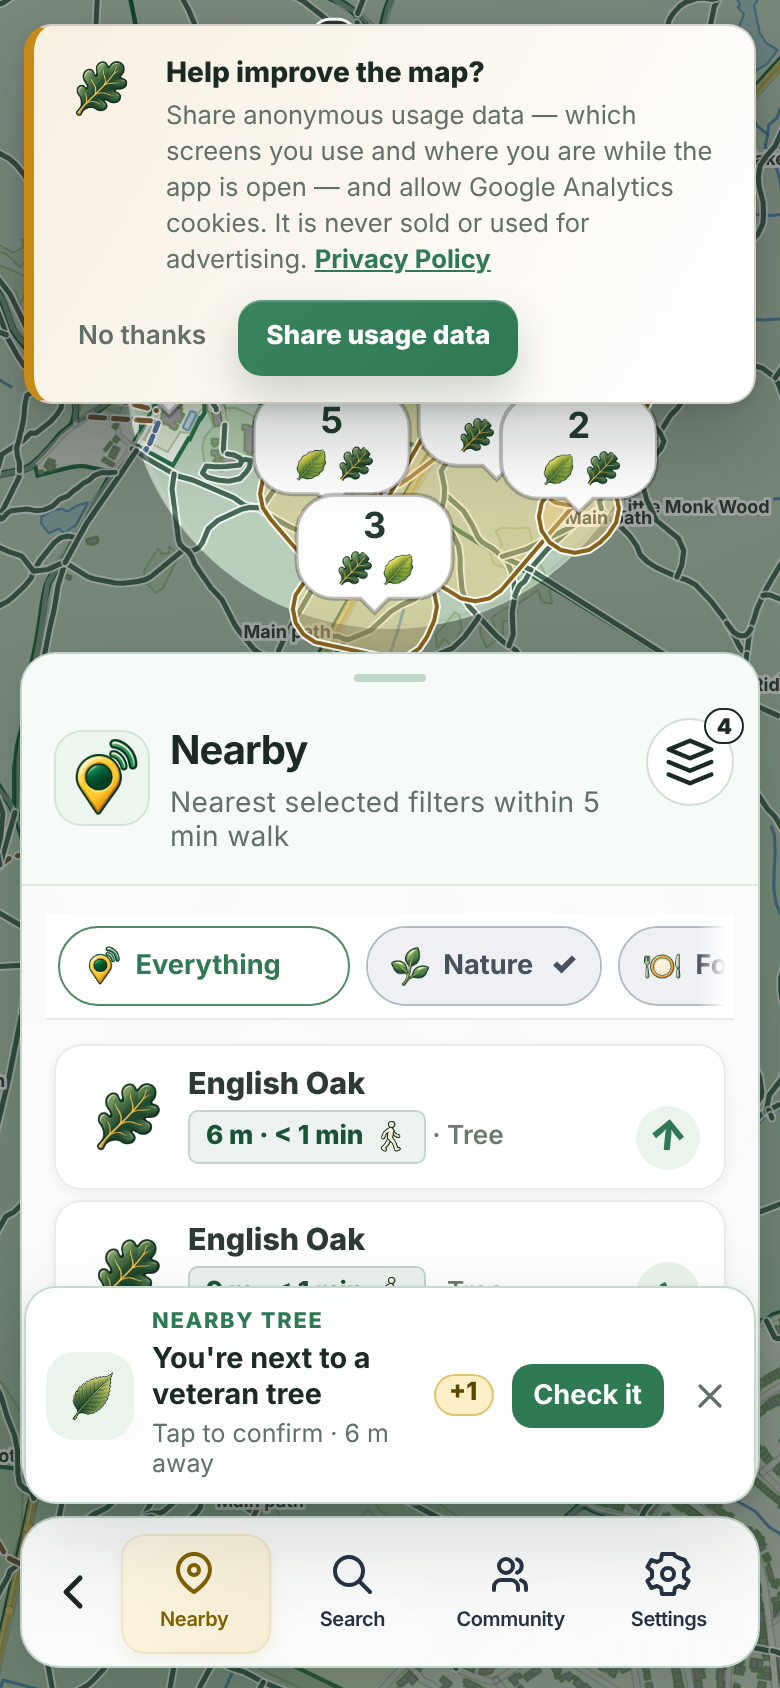
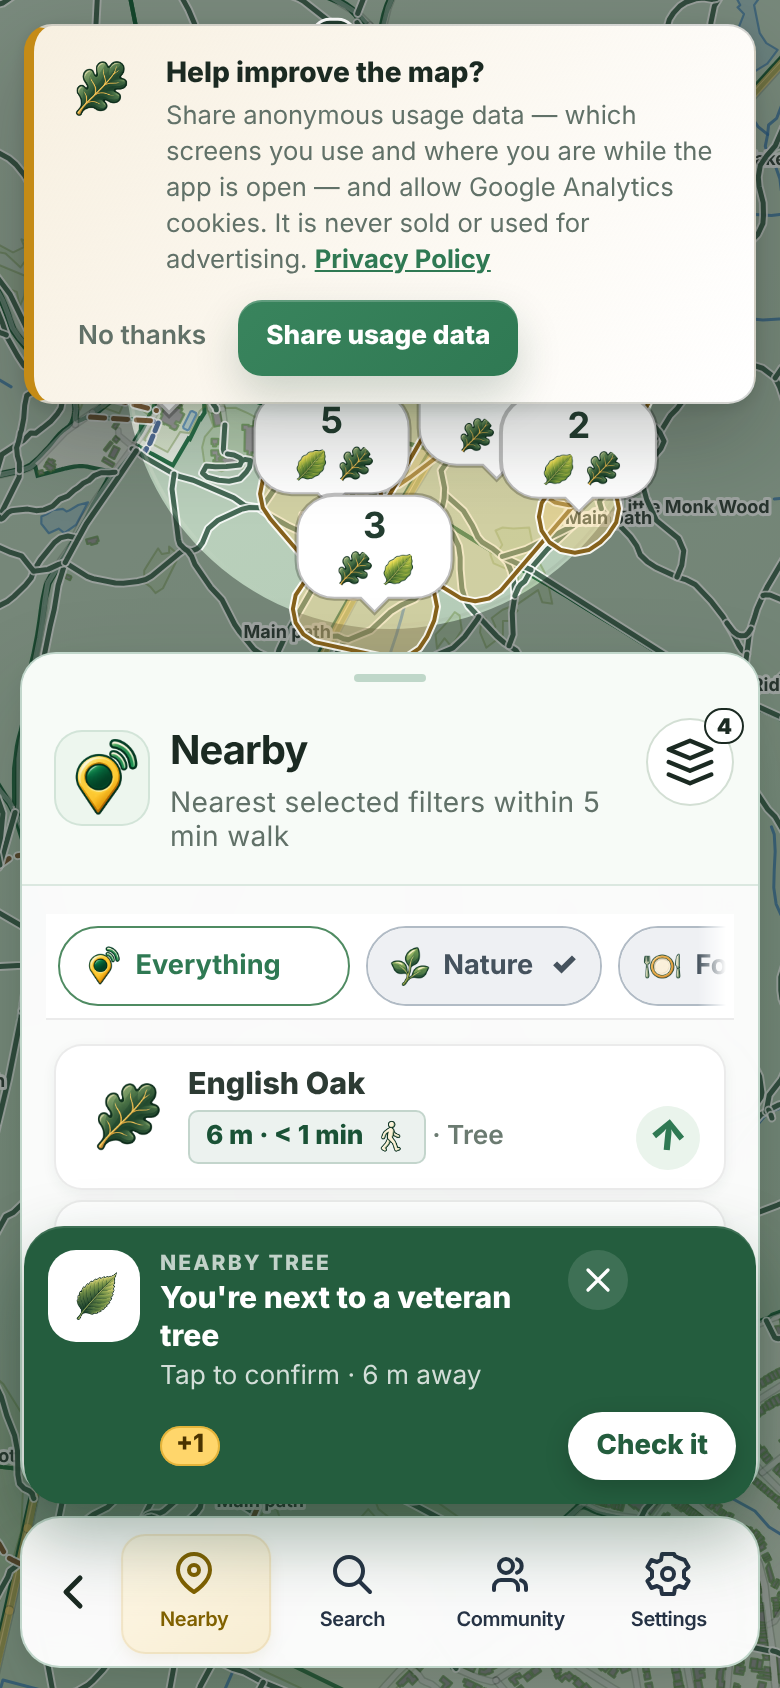
Rebuild the nudge on a fixed grid with a solid accent surface
Title block and close on the top row, points chip and the one action on
the bottom row, so nothing competes for the same space.

Claude-Session: https://claude.ai/code/session_01AJovwzNat6yvRnbUhUsFTU

Changed region(s): [[0.0308, 0.7085, 0.9846, 0.9242]]

diff --git a/css/inspector.css b/css/inspector.css
@@ -2189,21 +2189,21 @@ dd {
 }
 
 /* Nudge: a dismissible prompt when you are next to an unchecked tree, on every screen, and a one-off pulse on the check card.
-   Same panel, ink and accent as the app's other floating cards (see .event-nearby-banner-card); one solid accent action. */
-.community-nudge { position: fixed; z-index: 40; left: 12px; right: 12px; bottom: calc(var(--safe-bottom) + 92px); display: flex; align-items: center; gap: 12px; max-width: 460px; margin: 0 auto; padding: 12px 10px 12px 12px; border: 1px solid var(--border-accent); border-radius: 16px; background: var(--panel); color: var(--ink); box-shadow: var(--shadow); backdrop-filter: blur(12px); animation: community-nudge-in .3s ease-out; }
-.community-nudge-icon { display: inline-grid; place-items: center; width: 52px; height: 52px; border-radius: 14px; background: var(--accent-soft); color: var(--accent); flex: none; }
-.community-nudge-icon svg { width: 26px; height: 26px; }
-.community-nudge-art { width: 40px; height: 40px; object-fit: contain; }
-.community-nudge-eyebrow { font-style: normal; font-size: .68rem; font-weight: 800; letter-spacing: .08em; text-transform: uppercase; color: var(--accent); }
-.community-nudge-text { display: flex; flex: 1; flex-direction: column; gap: 3px; min-width: 0; line-height: 1.25; }
-.community-nudge-text strong { font-size: .95rem; font-weight: 700; color: var(--ink); }
-.community-nudge-text span { color: var(--muted); font-size: .82rem; }
-.community-nudge > .community-points-chip { flex: none; margin: 0; }
-.community-nudge-go { flex: none; padding: 9px 14px; border: 0; border-radius: 10px; background: var(--accent); color: #fff; font: inherit; font-size: .9rem; font-weight: 700; cursor: pointer; }
-.community-nudge-go:hover, .community-nudge-go:focus-visible { background: var(--accent-ink); }
-.community-nudge-close { display: inline-grid; place-items: center; flex: none; width: 28px; height: 28px; padding: 0; border: 0; border-radius: 50%; background: transparent; color: var(--muted); cursor: pointer; }
-.community-nudge-close:hover, .community-nudge-close:focus-visible { background: rgba(0, 0, 0, .06); color: var(--ink); }
-@media (max-width: 420px) { .community-nudge { gap: 9px; padding: 10px 8px 10px 10px; } .community-nudge-icon { width: 44px; height: 44px; } .community-nudge-art { width: 34px; height: 34px; } .community-nudge-text strong { font-size: .9rem; } .community-nudge-text span { font-size: .78rem; } .community-nudge-go { padding: 8px 11px; font-size: .85rem; } }
+   A solid deep-green card on a fixed grid: species art and title on top, the points chip and the one action underneath. */
+.community-nudge { position: fixed; z-index: 40; left: 12px; right: 12px; bottom: calc(var(--safe-bottom) + 92px); display: grid; grid-template-columns: 56px minmax(0, 1fr) auto; grid-template-areas: "icon text close" "icon chip go"; column-gap: 12px; row-gap: 10px; align-items: center; max-width: 460px; margin: 0 auto; padding: 14px 12px 14px 14px; border-radius: 20px; background: var(--accent-ink); color: #fff; box-shadow: 0 16px 36px rgba(20, 60, 36, .38), inset 0 1px 0 rgba(255, 255, 255, .12); animation: community-nudge-in .3s ease-out; }
+.community-nudge-icon { grid-area: icon; display: inline-grid; place-items: center; align-self: start; width: 56px; height: 56px; border-radius: 16px; background: #fff; color: var(--accent-ink); }
+.community-nudge-icon svg { width: 28px; height: 28px; }
+.community-nudge-art { width: 42px; height: 42px; object-fit: contain; }
+.community-nudge-text { grid-area: text; display: flex; flex-direction: column; gap: 2px; min-width: 0; line-height: 1.25; }
+.community-nudge-eyebrow { font-style: normal; font-size: .66rem; font-weight: 800; letter-spacing: .1em; text-transform: uppercase; color: rgba(255, 255, 255, .72); }
+.community-nudge-text strong { font-size: 1rem; font-weight: 800; color: #fff; }
+.community-nudge-text span { color: rgba(255, 255, 255, .8); font-size: .82rem; }
+.community-nudge > .community-points-chip { grid-area: chip; justify-self: start; margin: 0; background: #ffd66b; color: #4a3300; font-weight: 800; }
+.community-nudge-go { grid-area: go; justify-self: end; padding: 10px 18px; border: 0; border-radius: 999px; background: #fff; color: var(--accent-ink); font: inherit; font-size: .92rem; font-weight: 800; cursor: pointer; box-shadow: 0 4px 12px rgba(0, 0, 0, .18); }
+.community-nudge-go:hover, .community-nudge-go:focus-visible { background: #eef6f0; }
+.community-nudge-close { grid-area: close; align-self: start; display: inline-grid; place-items: center; width: 30px; height: 30px; padding: 0; border: 0; border-radius: 50%; background: rgba(255, 255, 255, .12); color: #fff; cursor: pointer; }
+.community-nudge-close:hover, .community-nudge-close:focus-visible { background: rgba(255, 255, 255, .24); }
+@media (max-width: 420px) { .community-nudge { grid-template-columns: 46px minmax(0, 1fr) auto; column-gap: 10px; padding: 12px 10px 12px 12px; } .community-nudge-icon { width: 46px; height: 46px; border-radius: 14px; } .community-nudge-art { width: 34px; height: 34px; } .community-nudge-icon svg { width: 24px; height: 24px; } .community-nudge-text strong { font-size: .94rem; } .community-nudge-go { padding: 9px 14px; font-size: .86rem; } }
 .community-nudge-setting { display: flex; gap: 8px; align-items: center; margin: 12px 2px; color: #5b665b; font-size: .85rem; }
 .community-check.community-nudge-pulse { animation: community-pulse 1.3s ease-in-out 2; }
 @keyframes community-nudge-in { from { opacity: 0; transform: translateY(8px); } to { opacity: 1; transform: none; } }
